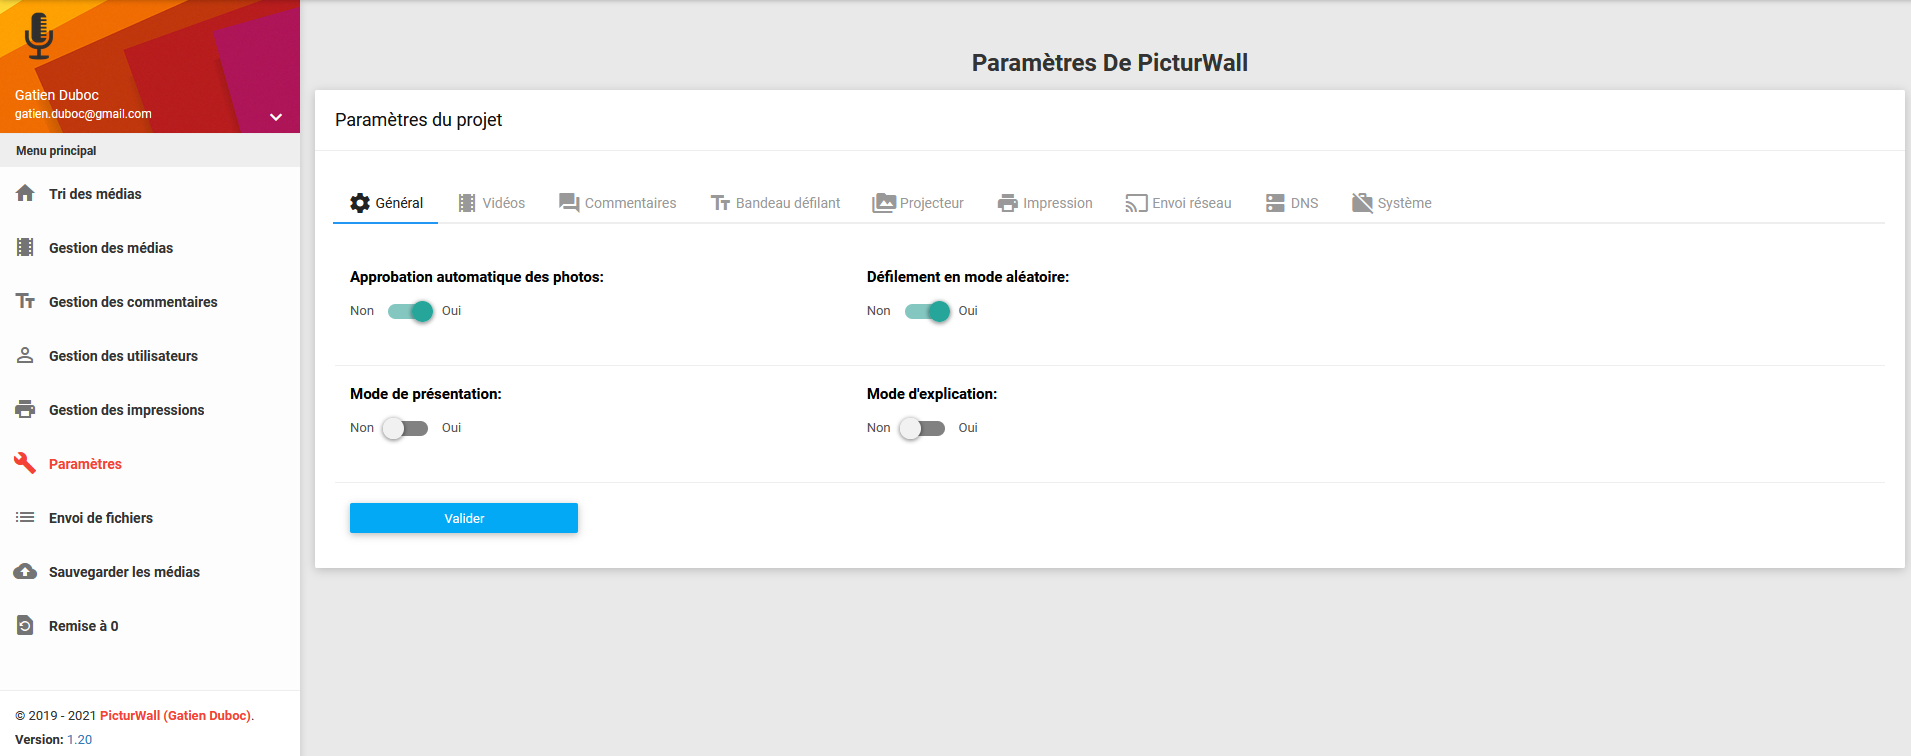
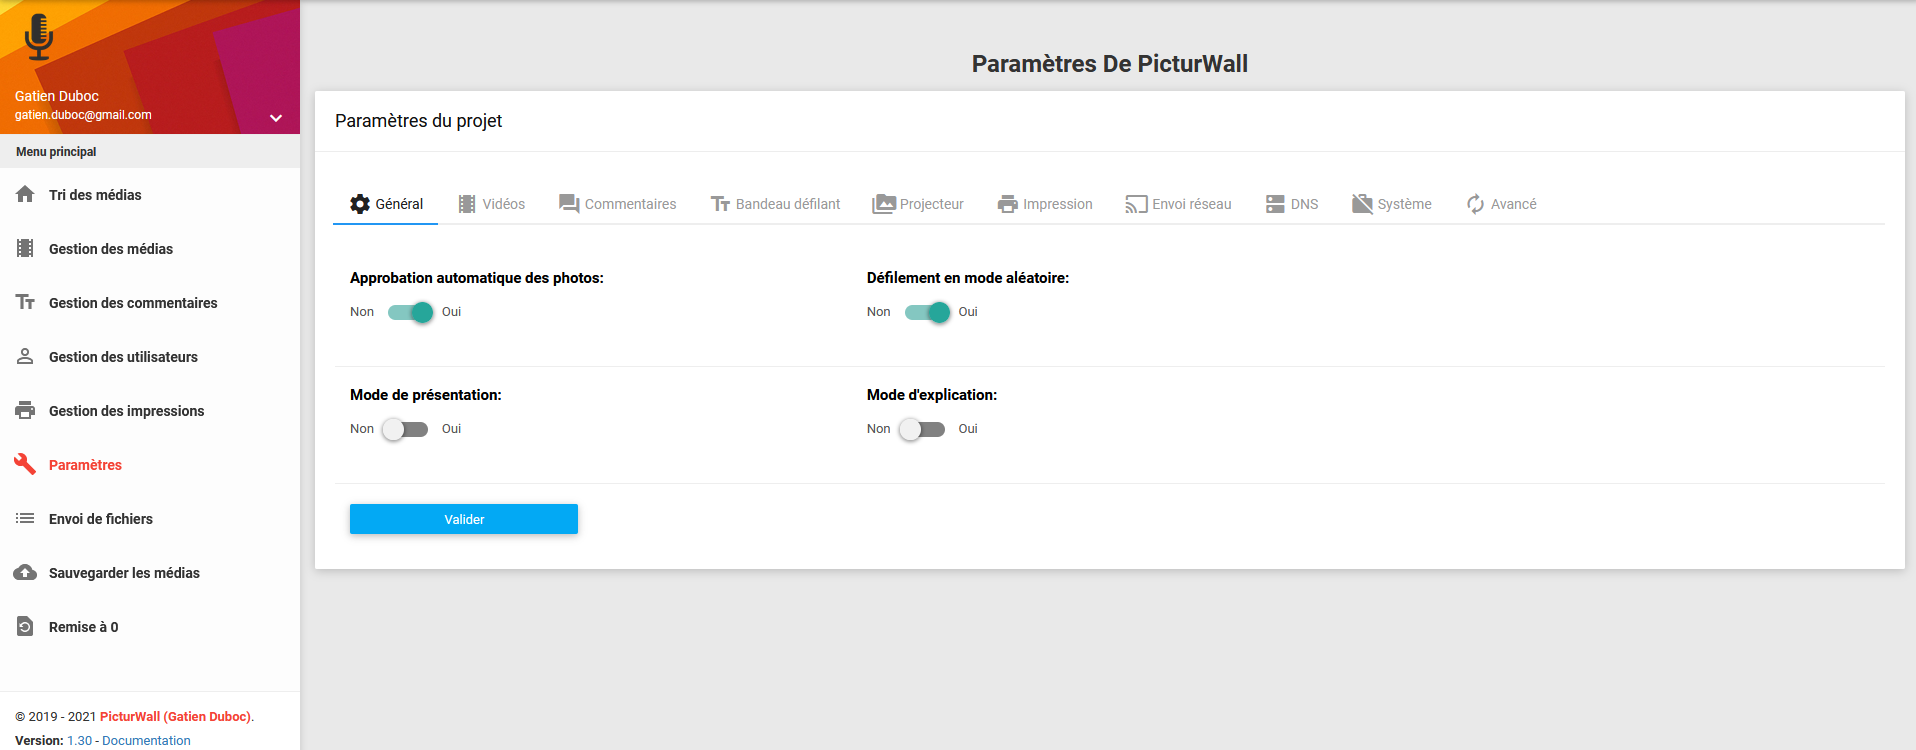
Maj 1.31 : Paramètres -> Section avancé

diff --git a/docs/panel_animateur/animateur_parametres.rst b/docs/panel_animateur/animateur_parametres.rst
@@ -72,7 +72,7 @@ Les paramètres sont découpés dans des sections, qui sont les suivantes :
     * :ref:`Afficher un QR-Code pour faciliter la connexion au réseau wifi <animateur_parametres_projecteur_qrcode_wifi>`
     * :ref:`Afficher un QR-Code pour faciliter la connexion au panel invité <animateur_parametres_projecteur_qrcode_panel_invite>`
     * :ref:`Redémarrer le diaporama <animateur_parametres_projecteur_redemarrer_diaporama>`
-    
+
 #. :ref:`Section impression <animateur_parametres_section_impression>` comprenant les paramètres suivants :
     * :ref:`Activer le service d'impression <animateur_parametres_impression_activer>`
     * Logo:
@@ -108,7 +108,10 @@ Les paramètres sont découpés dans des sections, qui sont les suivantes :
     * :ref:`Choisir sa résolution d'écran <animateur_parametres_systeme_resolution_manuel>`
     * :ref:`Mettre à jour PicturWall <animateur_parametres_systeme_maj>`
     * :ref:`Redémarrer le diaporama <animateur_parametres_systeme_redemarrer_diaporama>`
-
+#. :ref:`Section avancé <animateur_parametres_section_avance>` comprenant les paramètres suivants :
+    * :ref:`Sauvegarder les paramètres <animateur_parametres_avance_sauvegarder>`
+    * :ref:`Charger une configuration <animateur_parametres_avance_charger>`
+    * :ref:`Restauration usine <animateur_parametres_avance_reset>`
 
 .. _animateur_parametres_modifier:
 
@@ -1070,7 +1073,7 @@ Vous pourrez valider la génération du QRCode lorsque que vous cliquerez sur va
 
 .. important:: Pensez à tester votre QRCode avant d'enregistrer vos paramètres.
 
-   
+
 .. _animateur_parametres_projecteur_redemarrer_diaporama:
 
 Redémarrer le diaporama
@@ -1665,7 +1668,7 @@ Paramètre en question :
 
 Options du paramètre :
  * **Automatique** : Mode de résolution automatique (*paramètre par défaut*)
- * **Manuel** : Mode de résolution manuel 
+ * **Manuel** : Mode de résolution manuel
 
 .. important:: Lors du changement de ce paramètre, PicturWall va vous demander de redémarrer pour appliquer ce paramètre.
 
@@ -1767,3 +1770,101 @@ Option du paramètre :
  * **Redémarrer** : Redémarrer le diaporama de PicturWall
 
 .. note:: Pas de confirmation lorsque vous cliquez sur ce paramètre.
+
+
+.. _animateur_parametres_avance:
+
+Section avancé
+-----------------------------
+
+Vue globale de la section avancée:
+
+.. figure:: _images/parametres/avance/parametres_avance.PNG
+   :alt: Panel animateur de PicturWall, page paramètres, section avancé
+   :align: center
+
+.. _animateur_parametres_avance_sauvegarde:
+
+Sauvegarder la configuration actuelle
+#################################################################
+
+Vous pouvez sauvegarder l'ensemble des paramètres de PicturWall mais également les différents médias utile à son fonctionnement.
+
+Paramètre en question :
+
+.. figure:: _images/parametres/avance/parametres_avance_sauvegarder.PNG
+   :alt: Panel animateur de PicturWall, page paramètres, section avance, Sauvegarder les paramètres de PicturWall
+   :align: center
+
+Option du paramètre :
+ * **Sauvegarder** : Lancer la sauvegarde de PicturWall
+
+La fenêtre suivante va s'ouvrir :
+
+.. figure:: _images/parametres/avance/parametres_sauvegarde_confirmation.PNG
+   :alt: Panel animateur de PicturWall, page paramètres, section système, Mettre à jour PicturWall, confirmation.
+   :align: center
+
+.. note:: Le téléchargement de la configuration va se lancer automatiquement une fois prête.
+
+.. _animateur_parametres_avance_charger:
+
+Charger une configuration
+#################################################################
+
+Vous pouvez importer une configuration (précedement sauvegardée) grâce à ce paramètre.
+
+Paramètre en question :
+
+.. figure:: _images/parametres/avance/parametres_avance_charger.PNG
+   :alt: Panel animateur de PicturWall, page paramètres, section avance, charger les paramètres de PicturWall
+   :align: center
+
+Option du paramètre :
+ * **Parcourir** : Sélectionner l'archive comprenant la configuration a importer
+
+
+Vous devrez confirmer la demande d'importation :
+
+.. figure:: _images/parametres/avance/parametres_charger_confirmation.PNG
+   :alt: Panel animateur de PicturWall, page paramètres, section avancé, charger une configuration, confirmation.
+   :align: center
+
+.. note:: Cela va importer les différents paramètres de PicturWall mais également les différents médias nécessaires à son fonctionnement.
+
+Une fois la configuration importée, la fenêtre suivante va apparaître :
+
+.. figure:: _images/parametres/avance/parametres_charger_ok.PNG
+   :alt: Panel animateur de PicturWall, page paramètres, section avancé, charger une configuration, paramètres chargés.
+   :align: center
+
+.. _animateur_parametres_avance_reset:
+
+Restaurer la configuration d'usine
+#################################################################
+
+Vous pouvez restaurer la configuration d'usine de PicturWall grâce à ce paramètre.
+
+Paramètre en question :
+
+.. figure:: _images/parametres/avance/parametres_avance_reset.PNG
+   :alt: Panel animateur de PicturWall, page paramètres, section avance, restauration usine de PicturWall
+   :align: center
+
+Option du paramètre :
+ * **Restaurer** : Lance la restauration des paramètres de PicturWall
+
+
+Vous devrez confirmer la demande de restauration usine :
+
+.. figure:: _images/parametres/avance/parametres_reset_confirmation.PNG
+   :alt: Panel animateur de PicturWall, page paramètres, section avancé, restauration usine, confirmation.
+   :align: center
+
+.. note:: Cela va importer les différents paramètres de PicturWall mais ne remplacera pas les médias nécessaires à son fonctionnement.
+
+Une fois la restauration d'usine effectuée, la fenêtre suivante va apparaître :
+
+.. figure:: _images/parametres/avance/parametres_reset_ok.PNG
+   :alt: Panel animateur de PicturWall, page paramètres, section avancé, restauration usine, paramètres chargés.
+   :align: center

diff --git a/docs/panel_animateur/animateur_gestion_utilisateurs.rst b/docs/panel_animateur/animateur_gestion_utilisateurs.rst
@@ -11,7 +11,6 @@ La page de gestion des utilisateurs ressemble à ceci :
 
 Cette page vous permet de gérer les utilisateurs de PicturWall. C'est-à-dire que vous pourrez bannir et "débannir" les utilisateurs.
 
-
 .. _animateur_gestion_utilisateurs_bannir:
 
 Bannir un utilisateur
